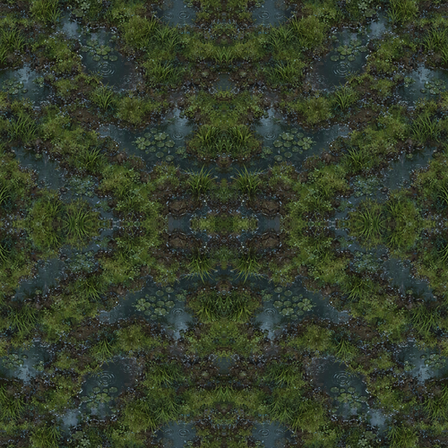
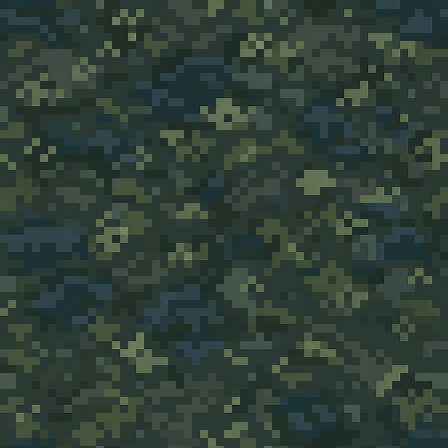
v2.4.0 逆尘：换用 deepkey-image 出图 + 灵界 5 张重出
v2.3.0 用原生生图工具时撞上持续 429 限流（等 2~3 分钟仍未恢复）。
用户在本机启用了 deepkey-image MCP 连接器，本版改用它出图 —— 效果明显更好。

一、⭐ 两个出图工具的质量对比（同一段提示词、同一公式）
  工具                              源图段长    唯一色
  原生生图（v2.3.0 定稿公式）        5.1px      337
  deepkey-image (gpt-image-2-4K)     13.48px    228   ← 改用
  ⇒ 像素块大 2.6 倍、调色板更干净。后续出图一律走 deepkey。

二、deepkey-image 用法要点（实测踩到的）
- 工具 mcp__deepkey-image__generate_image；
  model 用 'gpt-image-2-4K'（文档："exact pixel size matters 时用它"）。
- ⚠ 请求 1024x1024 实际给 2880x2880 —— 所以提示词里**不要写死画布尺寸**
  （会与实际画布不符），改成"整张画面被均分为 16x16 个大方块"。
  tools/pixel-spec.py: PIXEL_PROMPT 已同步改写。
- ⚠ 单张耗时 96~755 秒（波动极大）→ 批量必须按界分批（5~9 张一批）。
- 2880 分辨率对切图无影响（assets-build.py 缩到 448 + NEAREST）。

三、灵界 5 张已重出并接入（ling1..ling5）
- 段长 1.08~1.80 → 3.44~5.03；唯一色 478 → 36~194。
- 对比图 _shots_iso/cmp_ling4.png（左新右旧：左是硬边方块，右是模糊沙纹）。

四、进度
- 地面 15/29 已是新版（凡界 10 + 灵界 5）；
- 仙界 9 + 道界 5 = 14 张待重出；
- 建筑 20 / 立绘 48 / 行走精灵 33 待办。

五、判"哪张还是旧版"的可靠办法
量平均段长：新版 ≥2.4、旧版 ≤2.3（_gen/_probe_one.js）。
比按文件名猜靠谱 —— 一度把 fan4/fan9（新版，段长 3.21/3.88）误判成旧版。

diff --git a/www/js/core/ns.js b/www/js/core/ns.js
@@ -3,7 +3,7 @@ window.G = window.G || {};
 /* 游戏内版本号（标题「关于」与关于页显示）。
    ⚠ **必须与 HANDOVER.md 头部「代码版本」一致** —— 它从 v0.0.2 起就没再同步过，
    一直显示成初始占位（v0.12.0 才发现）。由 smoke 的 `version.contract` 钉住。 */
-G.VERSION = 'v2.3.0';
+G.VERSION = 'v2.4.0';
 
 /* ===== 像素风开关（v2.0.0）=====
    用户口径：「转成像素风格，但是现在的素材不要丢弃，可以作为对话或者动画的原图，

diff --git a/HANDOVER.md b/HANDOVER.md
@@ -1,6 +1,35 @@
 # 《逆尘》开发交接文档
 
-> 最后更新：2026-10-09 · 代码版本 **v2.3.0（像素地面用新公式重出 + 出图工具链）** · 设计基线 **GDD v4.0（文档归档重构）** · 前一里程碑 v2.2.0
+> 最后更新：2026-10-09 · 代码版本 **v2.4.0（换用 deepkey-image 出图 + 灵界 5 张重出）** · 设计基线 **GDD v4.0（文档归档重构）** · 前一里程碑 v2.3.0
+>
+> **【v2.4.0 出图工具升级：改用 deepkey-image MCP + 灵界 5 张重出 2026-10-09】**
+> v2.3.0 用原生生图工具时撞上持续 429 限流（等 2~3 分钟仍未恢复）。
+> 用户在本机启用了 **`deepkey-image` MCP 连接器**，本版改用它出图 —— **效果明显更好**。
+>
+> **① ⚠ 两个出图工具的质量对比（同一段提示词）**
+> | 工具 | 源图段长 | 唯一色 |
+> |---|---|---|
+> | 原生生图（v2.3.0 定稿公式） | 5.1px | 337 |
+> | **deepkey-image（gpt-image-2-4K）** | **13.48px** | **228** |
+> ⇒ deepkey 的像素块**大 2.6 倍**、调色板更干净。**后续出图一律走 deepkey。**
+>
+> **② deepkey-image 用法要点**
+> · 工具名 `mcp__deepkey-image__generate_image`；参数 `prompt` / `size` / `model` /
+>   `output_dir` / `filename`。
+> · **`model: 'gpt-image-2-4K'`** —— 文档里写明"exact pixel size matters 时用它"。
+>   ⚠ 但实测**请求 1024×1024 实际给 2880×2880**（工具会自行放大），
+>   所以**不要**在提示词里写死"整张 1024x1024"（会与实际画布不符）——
+>   改写成"整张画面被均分为 16x16 个大方块"即可（`tools/pixel-spec.py` 已同步）。
+> · **单张耗时 96~755 秒**（波动大），比原生生图慢很多。**批量要按界分批**（5~9 张一批）。
+> · 24 倍分辨率（2880）对切图无影响：`assets-build.py` 会缩到 448（NEAREST）。
+>
+> **③ 灵界 5 张已重出并接入**（ling1..ling5）
+> 实测段长 1.08~1.80 → **3.44~5.03**、唯一色 478 → **36~194**。
+> 对比图 `_shots_iso/cmp_ling4.png`（左新右旧：左是硬边方块，右是模糊沙纹）。
+>
+> **④ 进度**：地面 15/29 已是新版（凡界 10 + 灵界 5），
+> **仙界 9 + 道界 5 = 14 张待重出**。
+
 >
 > **【v2.3.0 出图提示词定稿 + 凡界 10 张重出 + 出图工具链 2026-10-09】**
 > 续 v2.2.0（29 张地面出齐但**颗粒度偏细**），本版把"提示词公式"这件事**实测收敛到定稿**，
@@ -2185,6 +2214,17 @@ node_modules/
 > 比这里记得全）。想回溯那几轮就 `git log --oneline` 挑出来 `git show <sha>`。
 > 下面是 v2.1.0 / v2.0.0 / v0.66.0 与更早的 v0.43.0。
 > （v1.0.0 – v1.9.5 的等距化整段说明也在**提交正文**与**头部增量块**里。）
+
+### v2.4.0：换用 deepkey-image 出图 + 灵界 5 张重出（2026-10-09）
+
+1. **出图工具换成 `deepkey-image` MCP**（用户在本机启用的连接器）。
+   同一段提示词下，源图段长 **5.1 → 13.48**、唯一色 337 → 228 —— **质量明显更好**。
+2. **`gpt-image-2-4K` 请求 1024 实际给 2880**：提示词里**不要再写死画布尺寸**，
+   改成"整张画面被均分为 16x16 个大方块"（`tools/pixel-spec.py: PIXEL_PROMPT` 已同步）。
+3. **灵界 5 张重出**（ling1..ling5）：段长 1.08~1.80 → 3.44~5.03、色数 478 → 36~194。
+   对比图 `_shots_iso/cmp_ling4.png`。
+4. 单张耗时 96~755 秒（波动大）→ **批量按界分批**。
+5. 进度：地面 **15/29** 新版（凡界 10 + 灵界 5）；仙界 9 + 道界 5 待重出。
 
 ### v2.3.0：出图提示词定稿 + 凡界 10 张重出（2026-10-09）
 
